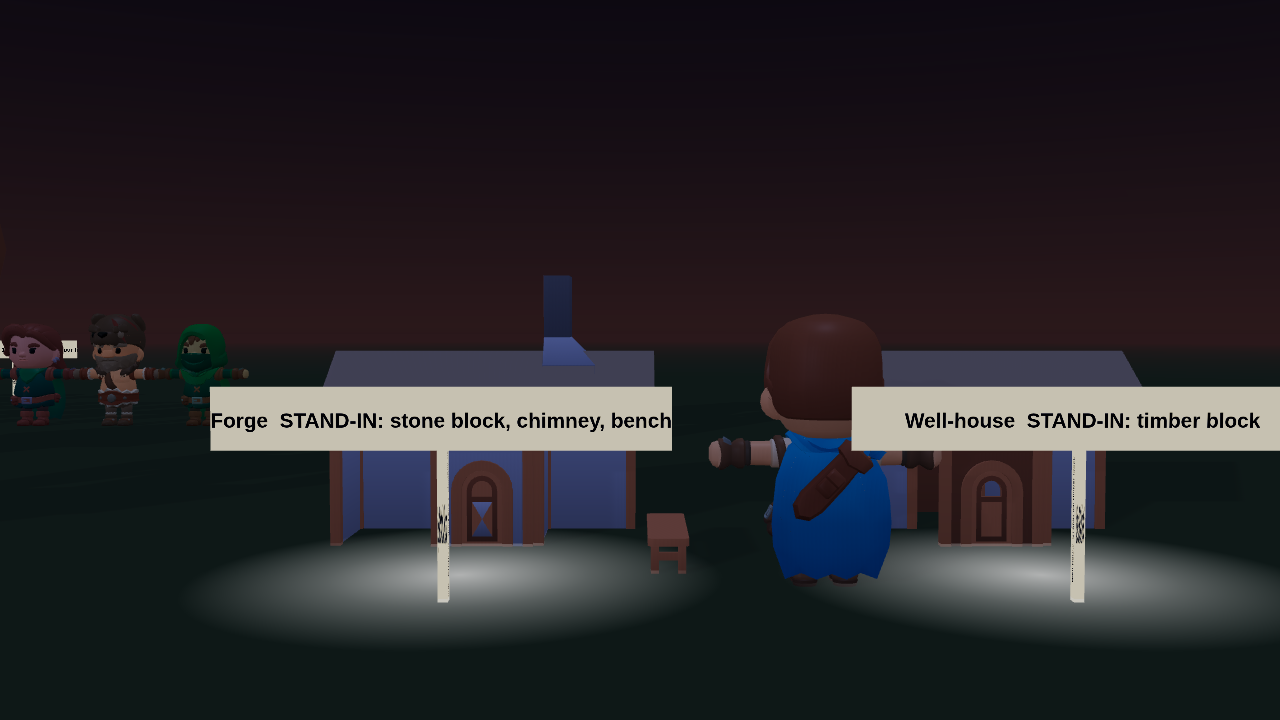
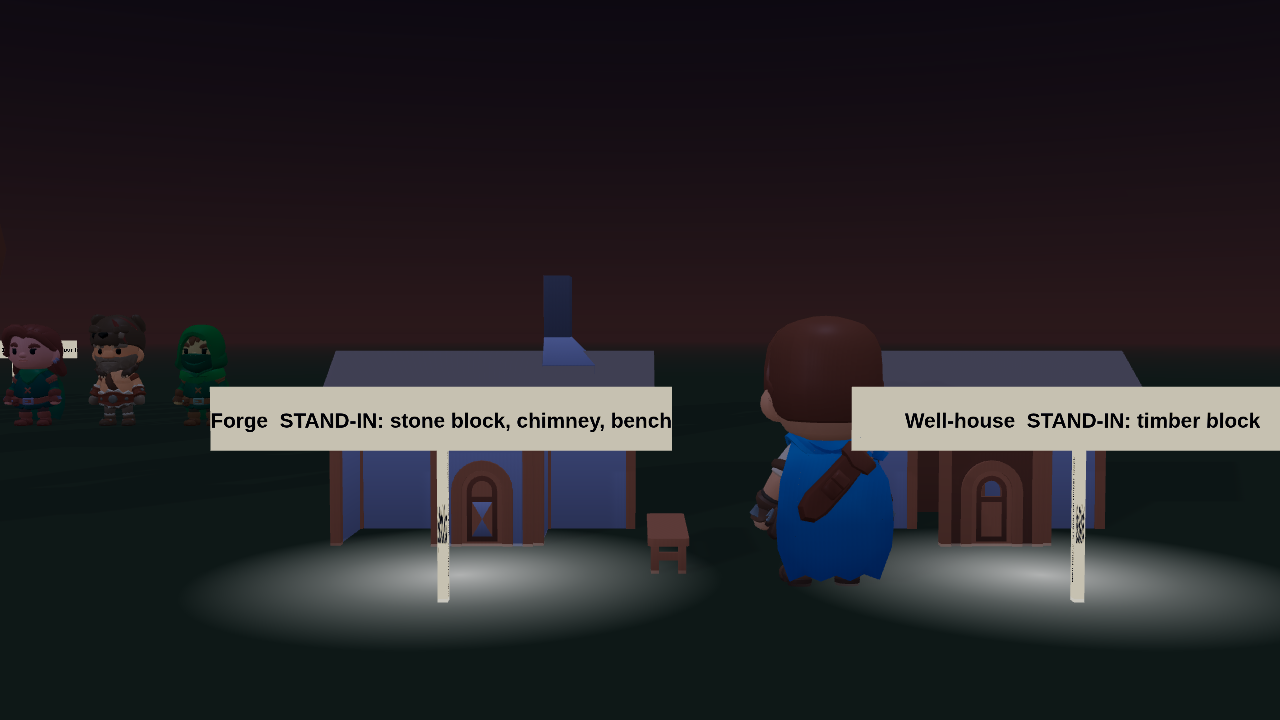
Style test: fix idle pose (stale build, bone names); capture fails on bindClips warnings

Changed region(s): [[0.5312, 0.5806, 0.7188, 0.7944], [0.0, 0.4889, 0.125, 0.5806]]

diff --git a/src/styletest/styletest.ts b/src/styletest/styletest.ts
@@ -204,7 +204,7 @@ function placeOn(ctx: Ctx, kitName: string, tag: string, x: number, z: number, y
   const container = ctx.kit.get(kitName);
   if (!container) throw new Error(`Styletest: kit piece not loaded ${kitName}`);
   const name = `${tag}_${ctx.n++}`;
-  const entries = container.instantiateModelsToScene((n) => `${name}_${n}`, false);
+  const entries = container.instantiateModelsToScene((n) => n, false);
   const root = new TransformNode(name, ctx.scene);
   for (const r of entries.rootNodes) r.parent = root;
   root.scaling.setAll(opts.scale ?? 1);
@@ -384,7 +384,8 @@ interface Spawned {
 function spawnPerson(ctx: Ctx, containers: Map<string, AssetContainer>, clips: LoadedAssets['clips'], p: Person, tag: string, x: number, z: number, yaw: number): Spawned {
   const c = containers.get(p.model);
   if (!c) throw new Error(`Styletest: model not loaded ${p.model}`);
-  const entries = c.instantiateModelsToScene((n) => `${tag}_${n}`, true);
+  // Bone names stay as authored: the clips look bones up by name (the game does the same).
+  const entries = c.instantiateModelsToScene((n) => n, true);
   const root = new TransformNode(tag, ctx.scene);
   for (const r of entries.rootNodes) r.parent = root;
   root.position = new Vector3(x, 0, z);
